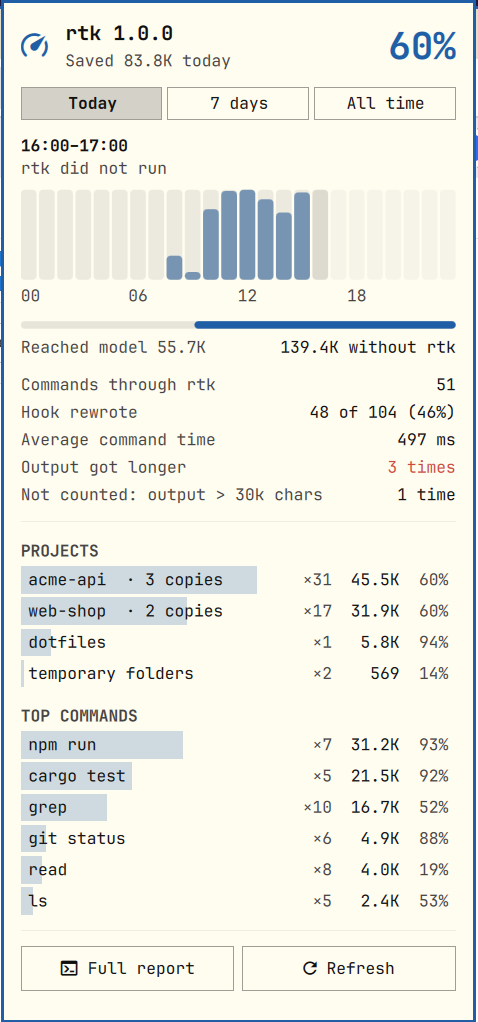
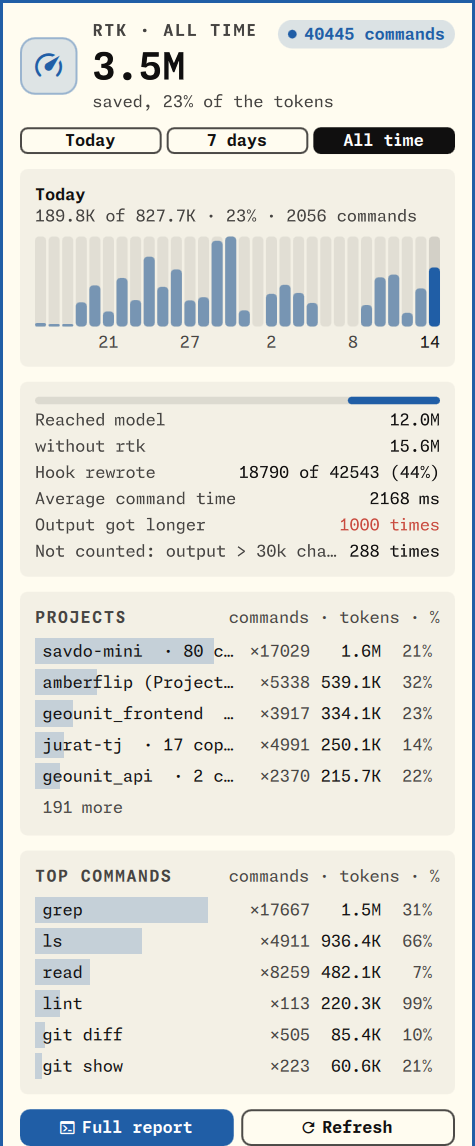
Header sentence full width (kit 2.0.2); new previews in the family look

Changed region(s): [[0.0, 0.0, 1.0, 1.0]]

diff --git a/kit/Header.qml b/kit/Header.qml
@@ -46,13 +46,16 @@ Item {
     id: labels
     anchors.left: mark.right
     anchors.leftMargin: Style.space(12)
-    anchors.right: chipItem.visible ? chipItem.left : parent.right
-    anchors.rightMargin: chipItem.visible ? Style.space(8) : 0
+    anchors.right: parent.right
     anchors.verticalCenter: parent.verticalCenter
     spacing: Style.space(1)
 
+    // The chip sits beside the name and the figure only: the sentence below
+    // runs under it, the whole width.
+    readonly property real besideChip: width - (chipItem.visible ? chipItem.width + Style.space(8) : 0)
+
     Text {
-      width: parent.width
+      width: parent.besideChip
       textFormat: Text.PlainText
       text: header.name.toUpperCase()
       color: header.look.dim
@@ -65,7 +68,7 @@ Item {
 
     Text {
       visible: text !== ""
-      width: parent.width
+      width: parent.besideChip
       textFormat: Text.PlainText
       text: header.value
       color: header.look.ink
